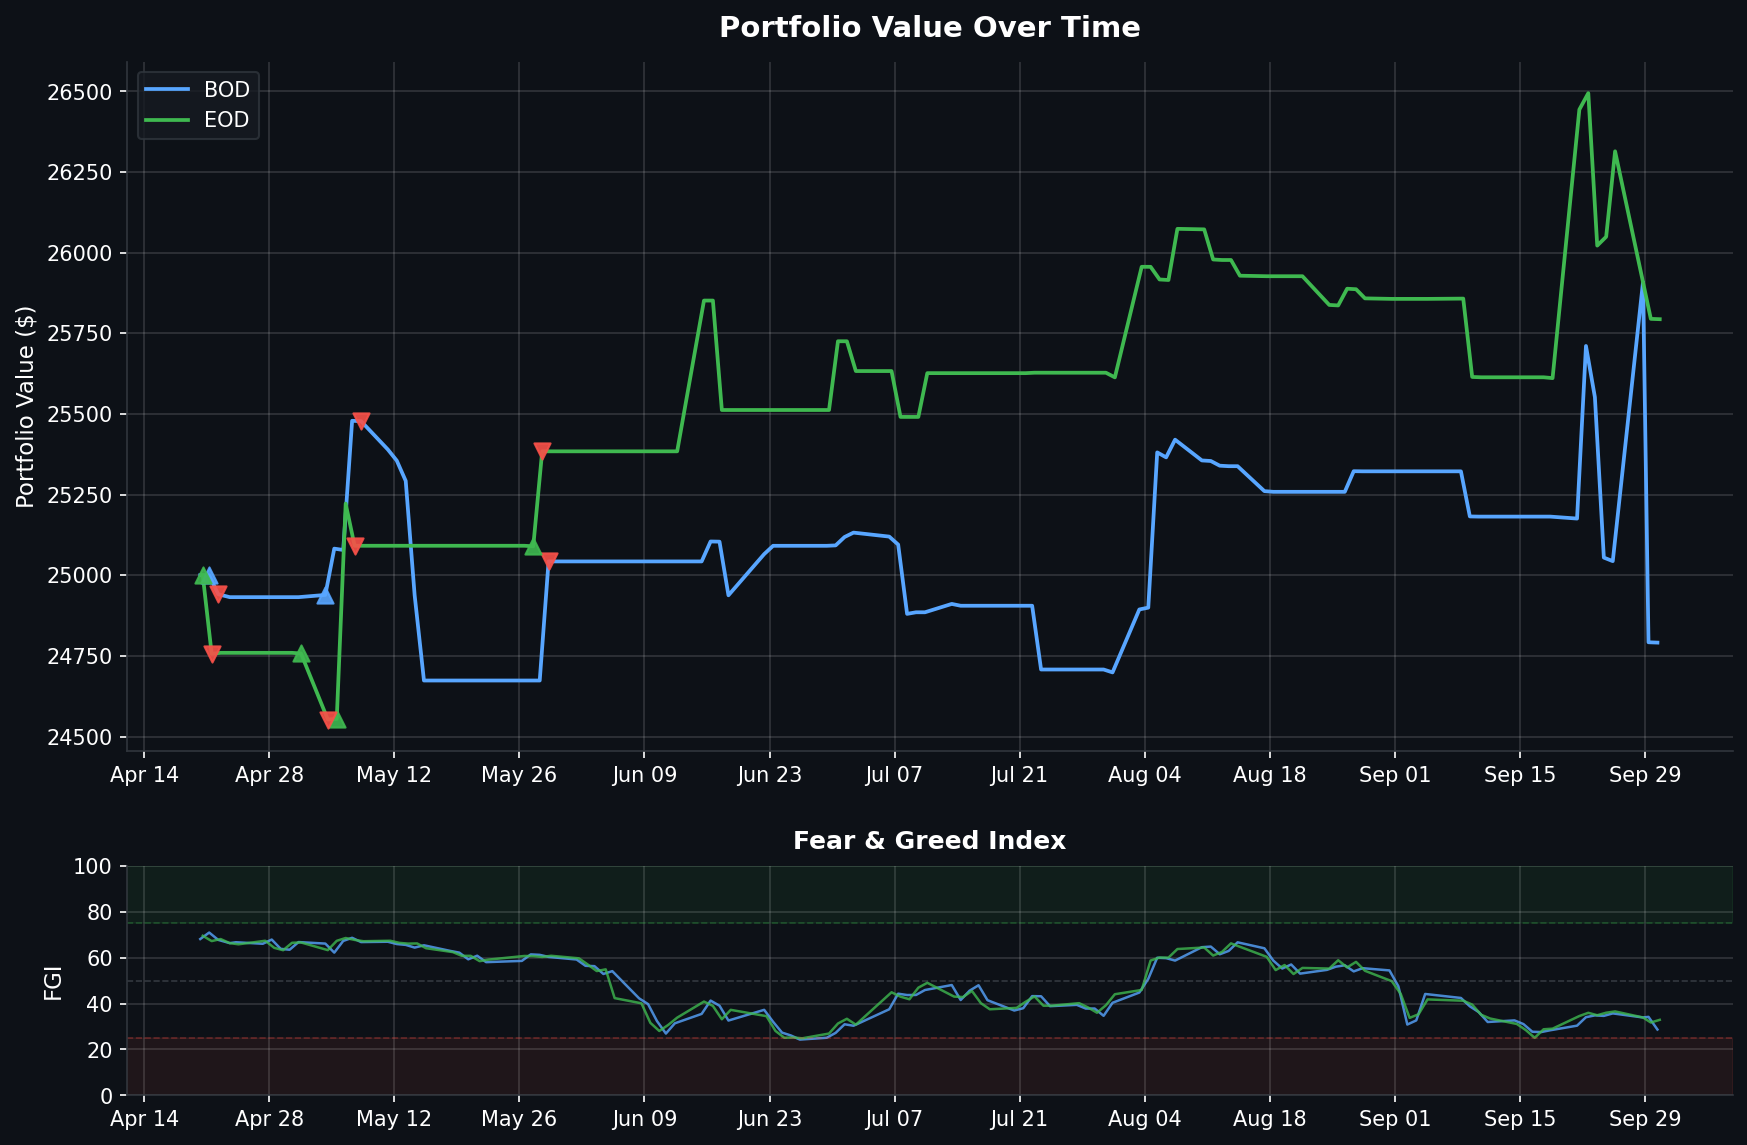
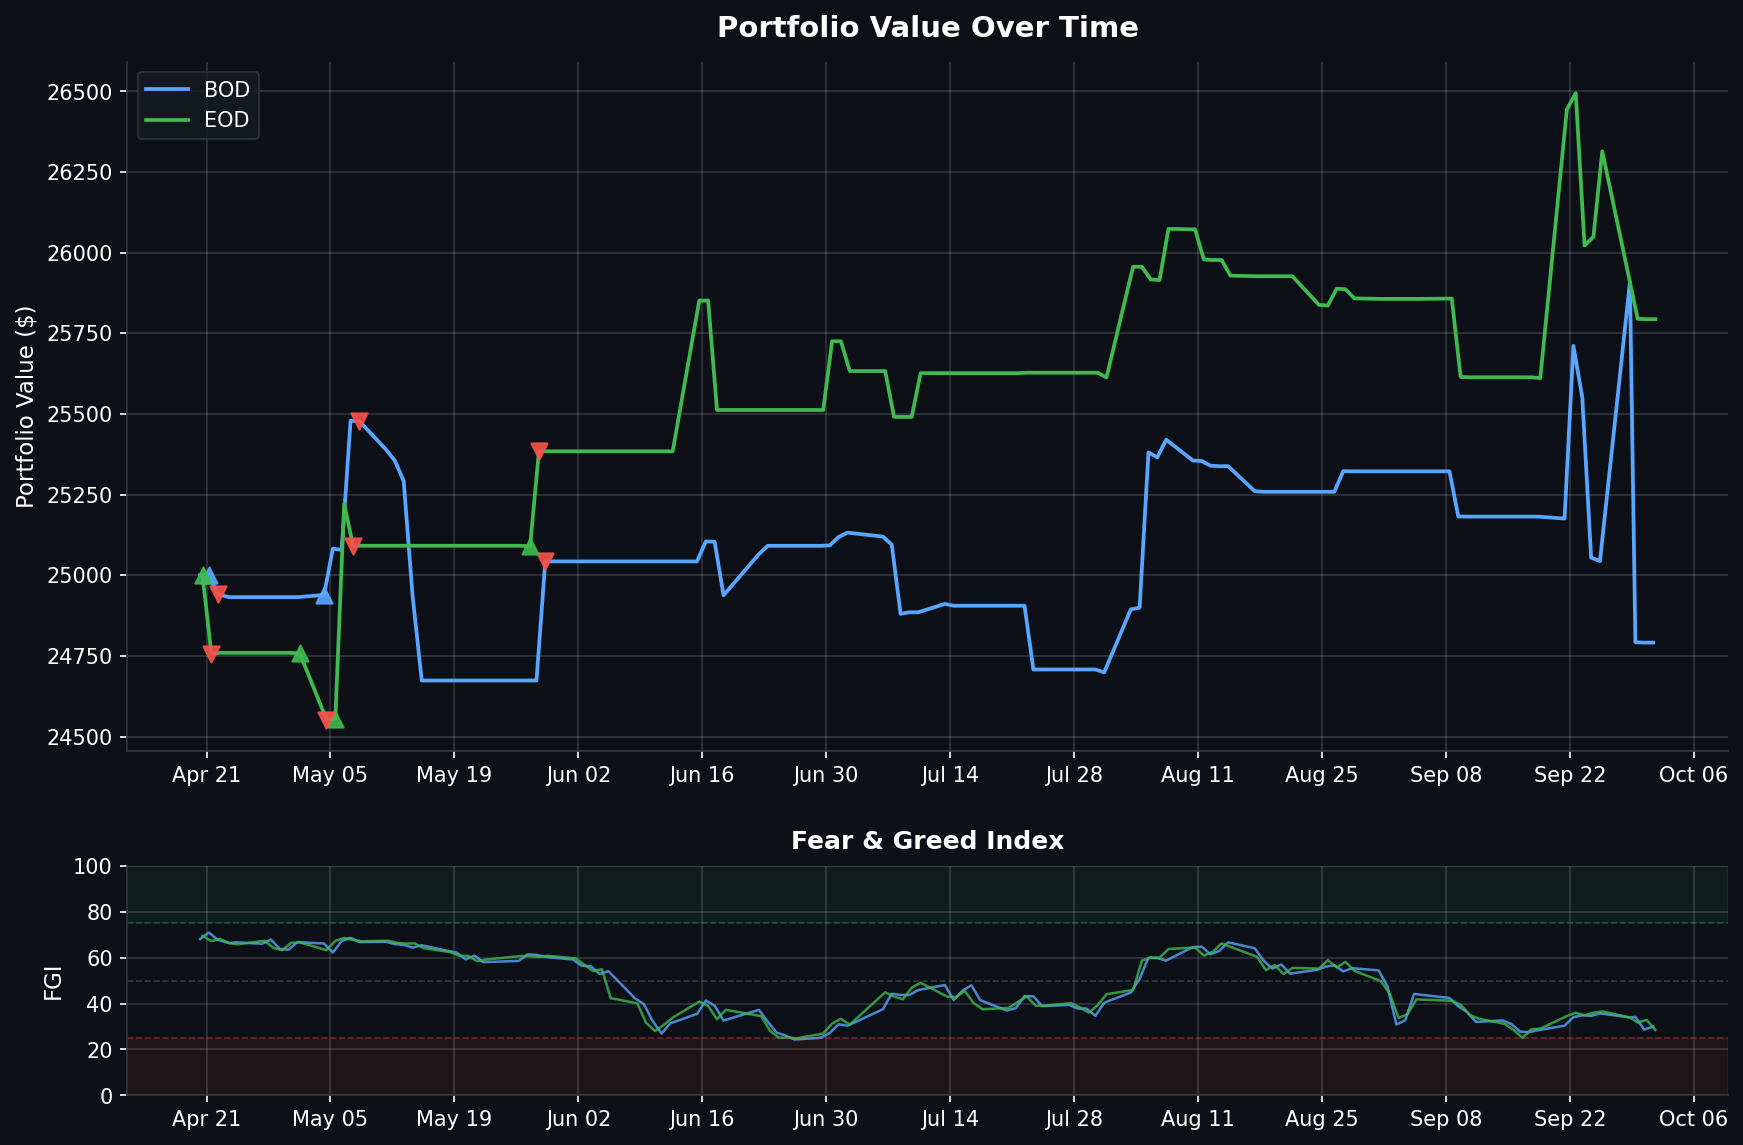
Daily data backup 2026-10-01

diff --git a/README.md b/README.md
@@ -1,6 +1,6 @@
 # Fear & Greed Index Trading Bot
 
-> Dashboard auto-updated daily at market close | Last update: **2026-09-30 13:30 PST**
+> Dashboard auto-updated daily at market close | Last update: **2026-10-01 13:30 PST**
 
 ![Portfolio Performance](assets/portfolio_chart.png)
 
@@ -12,12 +12,12 @@
 |--------|-------|
 | Portfolio Value | **$24,791.14** |
 | Buying Power | $99,164.56 |
-| Current FGI | 28.69 |
+| Current FGI | 29.94 |
 | Position | FLAT |
 | Total P&L | **$+995** |
 | Win Rate | 50% (1W / 1L) |
 | Total Round Trips | 2 |
-| Last Signal | NO_ACTION @ 2026-09-30 09:35 |
+| Last Signal | NO_ACTION @ 2026-10-01 09:35 |
 
 <details>
 <summary>Trade History (2 trades)</summary>
@@ -34,11 +34,11 @@
 
 | Time | Action | Price | FGI | Momentum | Velocity | Volatility | Reason |
 |------|--------|-------|-----|----------|----------|------------|--------|
+| 10-01 09:35 | NO_ACTION | $764.75 | 29.94 | -1.00 | -1.33 | 0.1075 | Insufficient momentum/velocity for entry |
 | 09-30 09:35 | NO_ACTION | $766.74 | 28.69 | -3.59 | -2.34 | 0.1081 | Insufficient momentum/velocity for entry |
 | 09-29 09:35 | NO_ACTION | $765.87 | 34.2 | -0.42 | -0.14 | 0.1103 | SELL incomplete - still holding 64 after 5 attempts |
 | 09-28 18:50 | NO_ACTION | $765.60 | 33.94 | -0.82 | -0.31 | 0.1109 | SELL incomplete - still holding 66 after 5 attempts |
 | 09-25 09:36 | NO_ACTION | $769.53 | 35.71 | 0.64 | 0.55 | 0.1065 | BUY did not fill after 3 attempts |
-| 09-24 09:35 | NO_ACTION | $764.98 | 34.63 | 0.11 | 1.42 | 0.1099 | SELL incomplete - still holding 64 after 5 attempts |
 
 </details>
 
@@ -50,12 +50,12 @@
 |--------|-------|
 | Portfolio Value | **$25,793.72** |
 | Buying Power | $103,174.88 |
-| Current FGI | 32.91 |
+| Current FGI | 28.46 |
 | Position | FLAT |
 | Total P&L | **$+302** |
 | Win Rate | 50% (2W / 2L) |
 | Total Round Trips | 4 |
-| Last Signal | NO_ACTION @ 2026-09-30 15:50 |
+| Last Signal | NO_ACTION @ 2026-10-01 15:50 |
 
 <details>
 <summary>Trade History (4 trades)</summary>
@@ -74,11 +74,11 @@
 
 | Time | Action | Price | FGI | Momentum | Velocity | Volatility | Reason |
 |------|--------|-------|-----|----------|----------|------------|--------|
+| 10-01 15:50 | NO_ACTION | $765.14 | 28.46 | -2.58 | -1.83 | 0.1074 | Insufficient momentum/velocity for entry |
 | 09-30 15:50 | NO_ACTION | $764.73 | 32.91 | 0.05 | -1.22 | 0.1076 | Insufficient momentum/velocity for entry |
 | 09-29 15:50 | NO_ACTION | $764.24 | 31.74 | -2.34 | -1.42 | 0.1105 | SELL incomplete - still holding 66 after 5 attempts |
 | 09-28 18:50 | NO_ACTION | $765.60 | 33.94 | -1.56 | -0.32 | 0.1109 | SELL incomplete - still holding 66 after 5 attempts |
 | 09-25 15:50 | NO_ACTION | $772.10 | 36.57 | 0.74 | 0.20 | 0.1081 | Holding position - indicators still favorable (1/8 days) |
-| 09-24 15:51 | NO_ACTION | $767.69 | 36.0 | 0.37 | 0.48 | 0.1089 | BUY did not fill after 3 attempts |
 
 </details>
 
